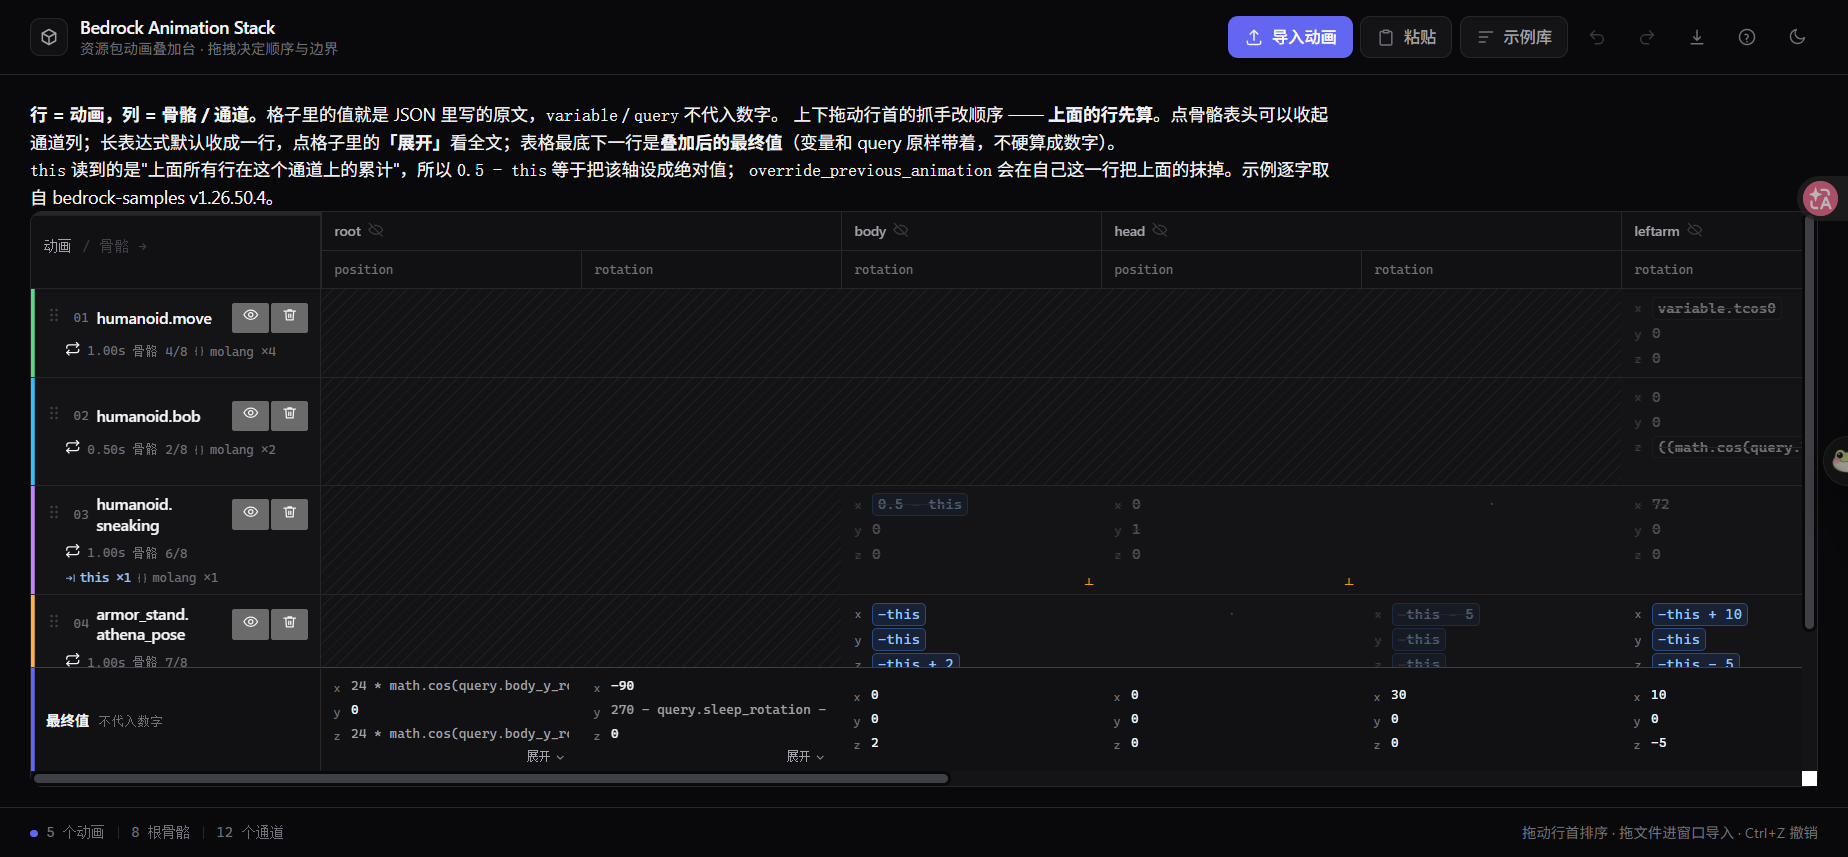
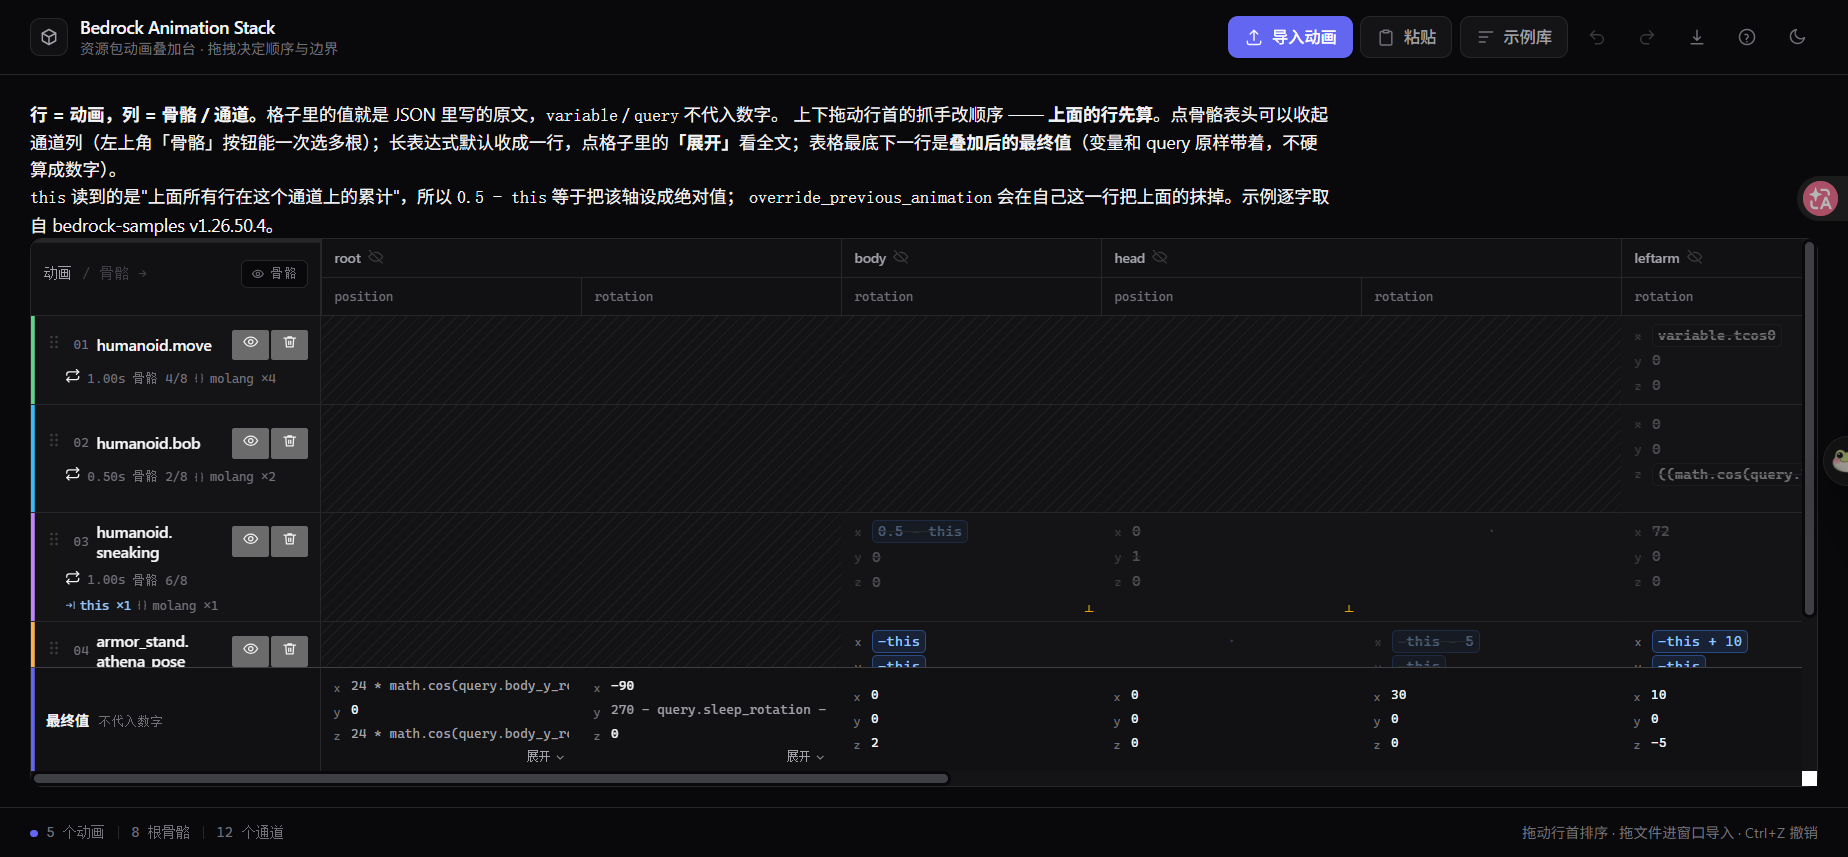
feat: 快速隐藏骨骼（左上角骨骼面板 + Alt 独显）
- 角落表头加「骨骼」按钮，弹出所有骨骼的开关面板，可连续点选，含全部显示/全部隐藏
- Alt+点骨骼表头 = 只看这一根，再点还原
- 显隐统一走 setBonesHidden()，批量操作只记一条撤销
- 面板挂 body 上，重建表格不会消失；scroll/resize 跟随定位
- 说明弹窗加卡片、HANDOVER/preview 同步

diff --git a/index.html b/index.html
@@ -1119,6 +1119,81 @@ textarea:focus { border-color: var(--accent); box-shadow: 0 0 0 3px var(--accent
   border-right: 1px solid var(--border);
 }
 .mtx thead th.corner .dim { color: var(--border-2); }
+.mtx thead th.corner .corner-row {
+  display: flex;
+  align-items: center;
+  justify-content: space-between;
+  gap: 8px;
+}
+/* 快速选骨骼：角落那个小按钮 + 弹出面板 */
+.bm-btn {
+  display: inline-flex;
+  align-items: center;
+  gap: 4px;
+  flex: none;
+  height: 22px;
+  padding: 0 7px;
+  border: 1px solid var(--border);
+  border-radius: 5px;
+  background: var(--bg);
+  color: var(--text-3);
+  font-family: var(--mono);
+  font-size: 10.5px;
+  letter-spacing: 0;
+  text-transform: none;
+  cursor: pointer;
+  transition: color var(--t-fast) var(--ease), border-color var(--t-fast) var(--ease);
+}
+.bm-btn .icon { width: 11px; height: 11px; }
+.bm-btn:hover { color: var(--text); border-color: var(--border-2); }
+.bm-btn.on { color: var(--accent); border-color: color-mix(in srgb, var(--accent) 45%, var(--border)); }
+
+.bonemgr {
+  position: fixed;
+  z-index: 95;
+  width: 272px;
+  padding: 10px;
+  border: 1px solid var(--border-2);
+  border-radius: var(--r-md);
+  background: var(--card);
+  box-shadow: var(--shadow-2);
+}
+.bm-head { display: flex; align-items: baseline; gap: 8px; margin-bottom: 8px; font-size: 12px; color: var(--text); }
+.bm-head b { font-weight: 600; }
+.bm-n { margin-left: auto; font-family: var(--mono); font-size: 10.5px; color: var(--text-3); }
+.bm-list { display: flex; flex-wrap: wrap; gap: 5px; max-height: 250px; overflow: auto; }
+.bm-chip {
+  display: inline-flex;
+  align-items: center;
+  gap: 5px;
+  height: 24px;
+  padding: 0 8px;
+  border: 1px solid var(--border);
+  border-radius: 6px;
+  background: var(--bg-2);
+  color: var(--text-3);
+  font-family: var(--mono);
+  font-size: 11px;
+  cursor: pointer;
+  transition: color var(--t-fast) var(--ease), border-color var(--t-fast) var(--ease), background var(--t-fast) var(--ease);
+}
+.bm-chip .bm-dot { width: 6px; height: 6px; border-radius: 50%; background: currentColor; opacity: .45; }
+.bm-chip.on { color: var(--text); border-color: var(--border-2); background: var(--card); }
+.bm-chip.on .bm-dot { background: var(--accent); opacity: 1; }
+.bm-chip:hover { border-color: var(--border-2); }
+.bm-foot { display: flex; gap: 6px; margin-top: 10px; padding-top: 9px; border-top: 1px solid var(--border); }
+.bm-foot button {
+  flex: 1;
+  height: 26px;
+  border: 1px solid var(--border);
+  border-radius: 6px;
+  background: none;
+  color: var(--text-2);
+  font-size: 11.5px;
+  cursor: pointer;
+  transition: color var(--t-fast) var(--ease), border-color var(--t-fast) var(--ease), background var(--t-fast) var(--ease);
+}
+.bm-foot button:hover { color: var(--text); border-color: var(--border-2); background: var(--hover); }
 .mtx thead th.boneh {
   font-size: 11.5px;
   font-weight: 600;
@@ -1316,7 +1391,7 @@ html[data-theme="light"] .rh-meta .chip.th { color: #1D4ED8; }
   <div class="intro" id="hint">
     <p>
       <b>行 = 动画，列 = 骨骼 / 通道。</b>格子里的值就是 JSON 里写的原文，<code>variable</code> / <code>query</code> 不代入数字。
-      上下拖动行首的抓手改顺序 —— <b>上面的行先算</b>。点骨骼表头可以收起通道列；长表达式默认收成一行，点格子里的<b>「展开」</b>看全文；表格最底下一行是<b>叠加后的最终值</b>（变量和 query 原样带着，不硬算成数字）。
+      上下拖动行首的抓手改顺序 —— <b>上面的行先算</b>。点骨骼表头可以收起通道列（左上角「骨骼」按钮能一次选多根）；长表达式默认收成一行，点格子里的<b>「展开」</b>看全文；表格最底下一行是<b>叠加后的最终值</b>（变量和 query 原样带着，不硬算成数字）。
     </p>
     <p class="sub">
       <code>this</code> 读到的是"上面所有行在这个通道上的累计"，所以 <code>0.5 - this</code> 等于把该轴设成绝对值；
@@ -2477,7 +2552,11 @@ function render() {
 
   const { rows, groups, cols, bounds, allBones, shadow } = buildMatrix();
 
-  const head1 = '<th class="corner" rowspan="2" scope="col">动画 <span class="dim">/ 骨骼 →</span></th>'
+  const head1 = '<th class="corner" rowspan="2" scope="col">'
+    + '<span class="corner-row"><span class="corner-t">动画 <span class="dim">/ 骨骼 →</span></span>'
+    + '<button class="bm-btn' + (state.hiddenBones.length ? ' on' : '') + '" data-bonemgr type="button"'
+    + ' aria-haspopup="dialog" title="选择显示哪些骨骼 · Alt+点骨骼表头 = 只看这一根">'
+    + ic('eye') + '<span>骨骼</span></button></span></th>'
     + groups.map(g => '<th class="boneh" scope="colgroup" colspan="' + g.bases.length + '"'
       + ' data-bone="' + escapeHtml(g.bone) + '" tabindex="0" role="button"'
       + ' aria-label="隐藏 ' + escapeHtml(g.bone) + ' 的通道列"'
@@ -2505,6 +2584,7 @@ function render() {
 
   host.innerHTML = '<table class="mtx" aria-label="动画叠加矩阵：行是动画（上面的先算），列是骨骼与通道"><thead><tr>' + head1 + '</tr><tr>' + head2 + '</tr></thead><tbody>' + body + sum + '</tbody></table>';
   host.style.setProperty('--ncol', cols.length);
+  state.allBones = allBones;
   renderColbar(allBones);
   updateStatus();
 }
@@ -2523,21 +2603,87 @@ function renderColbar(allBones) {
     + '<button class="btn tiny show-all" id="colShowAll">全部显示</button>';
 }
 
+/* 统一的骨骼显隐入口：一次改完再 render，批量操作不会刷一堆历史 */
+function setBonesHidden(next, label) {
+  const cur = state.hiddenBones.join('|');
+  if (next.slice().sort().join('|') === cur.split('|').filter(Boolean).sort().join('|')) return;
+  histPush(label);
+  state.hiddenBones = next.slice();
+  render(); save();
+}
+
+/* Alt+点表头：只留这一根；已经是"只看它"就还原 */
+function soloBone(bone) {
+  const all = state.allBones || [];
+  const others = all.filter(b => b !== bone);
+  const solo = others.every(b => state.hiddenBones.indexOf(b) >= 0) && state.hiddenBones.indexOf(bone) < 0;
+  setBonesHidden(solo ? [] : others, solo ? '显示全部骨骼' : '只看 ' + bone);
+  toast(solo ? '已恢复显示全部骨骼' : '只看 <code>' + escapeHtml(bone) + '</code> · 矩阵上方可恢复');
+}
+
+let bmEl = null;
+
+function closeBoneMgr() {
+  if (!bmEl) return;
+  bmEl.remove();
+  bmEl = null;
+  window.removeEventListener('scroll', placeBoneMgr, true);
+  window.removeEventListener('resize', placeBoneMgr);
+}
+
+function placeBoneMgr() {
+  const btn = document.querySelector('[data-bonemgr]');
+  if (!bmEl || !btn) return;
+  const r = btn.getBoundingClientRect();
+  const w = bmEl.offsetWidth || 268;
+  bmEl.style.left = Math.round(Math.max(12, Math.min(r.left, window.innerWidth - w - 12))) + 'px';
+  bmEl.style.top = Math.round(Math.min(r.bottom + 6, window.innerHeight - 60)) + 'px';
+}
+
+function boneMgrHTML() {
+  const all = state.allBones || [];
+  const hidden = new Set(state.hiddenBones);
+  const shown = all.filter(b => !hidden.has(b)).length;
+  return '<div class="bm-head"><b>显示哪些骨骼</b><span class="bm-n">' + shown + '/' + all.length + '</span></div>'
+    + '<div class="bm-list">' + all.map(b =>
+      '<button class="bm-chip' + (hidden.has(b) ? '' : ' on') + '" data-bm-bone="' + escapeHtml(b) + '"'
+      + ' aria-pressed="' + (hidden.has(b) ? 'false' : 'true') + '">'
+      + '<span class="bm-dot"></span>' + escapeHtml(b) + '</button>').join('') + '</div>'
+    + '<div class="bm-foot"><button data-bm="all">全部显示</button><button data-bm="none">全部隐藏</button></div>';
+}
+
+function refreshBoneMgr() {
+  if (bmEl) bmEl.innerHTML = boneMgrHTML();
+  const btn = document.querySelector('[data-bonemgr]');
+  if (btn) btn.classList.toggle('on', state.hiddenBones.length > 0);
+}
+
+function toggleBoneMgr() {
+  if (bmEl) { closeBoneMgr(); return; }
+  const all = state.allBones || [];
+  if (!all.length) { toast('当前没有骨骼可以选'); return; }
+  bmEl = document.createElement('div');
+  bmEl.className = 'bonemgr';
+  bmEl.setAttribute('role', 'dialog');
+  bmEl.setAttribute('aria-label', '选择显示哪些骨骼');
+  bmEl.innerHTML = boneMgrHTML();
+  document.body.appendChild(bmEl);
+  placeBoneMgr();
+  window.addEventListener('scroll', placeBoneMgr, true);
+  window.addEventListener('resize', placeBoneMgr);
+}
+
 function hideBone(bone) {
   if (!bone || state.hiddenBones.indexOf(bone) >= 0) return;
-  histPush('收起 ' + bone + ' 的通道列');
-  state.hiddenBones.push(bone);
-  render(); save();
+  setBonesHidden(state.hiddenBones.concat([bone]), '收起 ' + bone + ' 的通道列');
+  refreshBoneMgr();
   toast('已隐藏 <code>' + escapeHtml(bone) + '</code> 的通道列 · 矩阵上方可恢复');
 }
 
 function showBone(bone) {
-  const n = state.hiddenBones.length;
-  const next = state.hiddenBones.filter(b => b !== bone);
-  if (n === next.length) return;
-  histPush('恢复 ' + bone + ' 的通道列');
-  state.hiddenBones = next;
-  render(); save();
+  if (state.hiddenBones.indexOf(bone) < 0) return;
+  setBonesHidden(state.hiddenBones.filter(b => b !== bone), '恢复 ' + bone + ' 的通道列');
+  refreshBoneMgr();
 }
 
 function initColbar() {
@@ -2605,10 +2751,16 @@ function initMatrix() {
   const host = $('#matrix');
   host.addEventListener('click', e => {
     if (Date.now() - lastDragAt < 300) return;
+    const bmg = e.target.closest('[data-bonemgr]');
+    if (bmg) { toggleBoneMgr(); return; }
     const xb = e.target.closest('[data-exp]');
     if (xb) { toggleCell(xb.dataset.exp); return; }
     const bh = e.target.closest('th.boneh[data-bone]');
-    if (bh) { hideBone(bh.dataset.bone); return; }
+    if (bh) {
+      if (e.altKey) soloBone(bh.dataset.bone);
+      else hideBone(bh.dataset.bone);
+      return;
+    }
     const btn = e.target.closest('[data-act]');
     if (!btn) return;
     const th = btn.closest('th.rowh');
@@ -2618,6 +2770,32 @@ function initMatrix() {
     if (btn.dataset.act === 'toggle') toggleItem(item);
     else if (btn.dataset.act === 'del') removeItem(item);
   });
+  /* 骨骼面板：点芯片切换、全部显示/隐藏、点别处收起 */
+  document.addEventListener('click', e => {
+    if (!bmEl) return;
+    const chip = e.target.closest('[data-bm-bone]');
+    if (chip) {
+      const bone = chip.dataset.bmBone;
+      const next = state.hiddenBones.slice();
+      const i = next.indexOf(bone);
+      if (i >= 0) next.splice(i, 1); else next.push(bone);
+      setBonesHidden(next, (i >= 0 ? '恢复 ' : '收起 ') + bone + ' 的通道列');
+      refreshBoneMgr();
+      return;
+    }
+    const act = e.target.closest('[data-bm]');
+    if (act) {
+      if (act.dataset.bm === 'all') setBonesHidden([], '显示全部骨骼');
+      else setBonesHidden((state.allBones || []).slice(), '隐藏全部骨骼');
+      refreshBoneMgr();
+      return;
+    }
+    if (!e.target.closest('.bonemgr') && !e.target.closest('[data-bonemgr]')) closeBoneMgr();
+  });
+  document.addEventListener('keydown', e => {
+    if (e.key === 'Escape' && bmEl) closeBoneMgr();
+  });
+
   /* 键盘等价操作：聚焦行首抓手后 ↑ ↓ 换序，Home / End 到首末行；聚焦骨骼表头后 Enter / 空格隐藏 */
   host.addEventListener('keydown', e => {
     const bh = e.target.closest && e.target.closest('th.boneh[data-bone]');
@@ -3238,6 +3416,7 @@ function initDocs() {
       ['undo', '撤销 / 重做', 'Ctrl+Z 撤销，Ctrl+Y（或 Ctrl+Shift+Z）重做，顶栏两个箭头按钮也能点。顺序调整、启停、增删、收起骨骼列都能回退，最多 80 步；在输入框里仍然是浏览器自带的撤销，不会被抢。'],
       ['thisMark', 'this', '<code>this</code>（旧写法 <code>-this</code>）不是通道后缀，而是<strong>值表达式里的一项</strong>，代表「这个通道在上面所有行上的累计值」。所以 <code>"0.5 - this"</code> 等于把该轴设成绝对值 0.5，<code>"-this"</code> 把该轴清零，<code>"-this + 2"</code> 得到 2。只有<strong>引用了 this 的那一条轴</strong>会标蓝，行头另有 <code>this ×N</code> 计数。'],
       ['ban', '空与划掉', '两种「空」不是一回事：<code>·</code> = 这段动画有这根骨骼、但没写这个通道；<strong>斜纹格</strong> = 这段动画压根没有这根骨骼（行头的 <code>骨骼 4/8</code> 就是覆盖率，悬停能看具体漏了哪几根）。文字被划掉 = 被下面的行作废：<code>override</code> 是整根骨骼作废，<code>- this</code> 只作废它写成绝对值的那一条轴。'],
+      ['eye', '快速隐藏骨骼', '矩阵左上角那个 <b>骨骼</b> 按钮会把所有骨骼列出来，点一下开/关，底部还有「全部显示 / 全部隐藏」。也可以直接点骨骼表头隐藏它；<kbd>Alt</kbd> + 点 = <b>只看这一根</b>，再 Alt + 点一次还原。隐藏只影响显示，<code>this</code> 和 override 的判定照旧按全部骨骼算。'],
       ['sigma', '最终值（底部那行）', '表格最下面一行是把上面各行<strong>按顺序叠起来</strong>的结果：<code>this</code> 用上一行的结果代入，<code>override</code> 先把它碰到的骨骼清零。<strong>不代入数字</strong>——式子里有 <code>variable</code> / <code>query</code> 就原样留在表达式里，只做化简和抵消（<code>this + (-this)</code> 会直接消掉，<code>-this + 10</code> 最后就是 <code>10</code>）；关键帧这种随时间变的量记作 <code>t</code>。鼠标停在格子上能看到最后是哪一行写的。'],
       ['override', 'override_previous_animation', '这一行带 <code>true</code> 时，引擎先把<strong>它碰到的骨骼</strong>清成 0 / 0 / 0（scale 是 1 / 1 / 1）再写自己的值 —— 也就是把它上面所有行在这几根骨骼上的账全部作废。表里用琥珀色的行边 + 一条通栏说明带标出来，上面被抹掉的格子会划掉并标 <code>⟂</code>。'],
       ['keyframe', '关键帧', '关键帧写成 <code>{ "0.5": [x,y,z] }</code>。时间标在行首，帧数多于 4 个时先列前 3 帧 + <code>… 共 N 帧</code>，点格子底部的<strong>「展开」</strong>看全部。<code>pre</code> 与 <code>post</code> 不同时那一帧标成琥珀色（在这一点跳变）；<code>lerp_mode: "catmullrom"</code> 会单独标出来。'],
